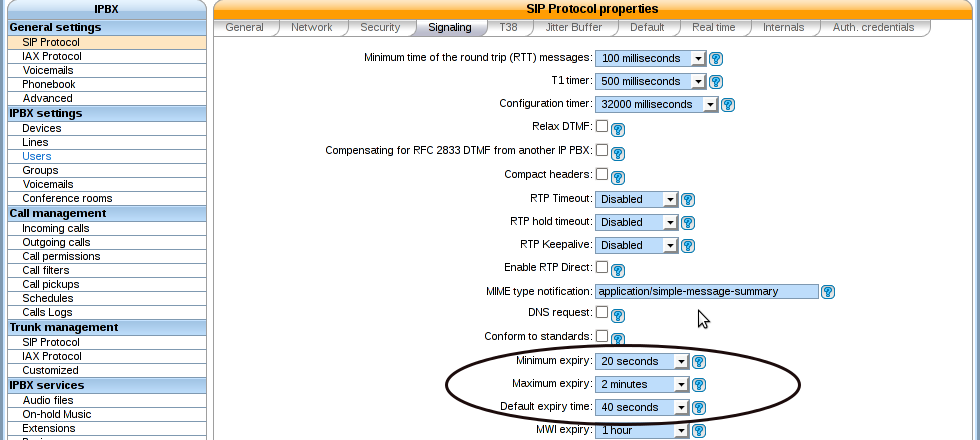
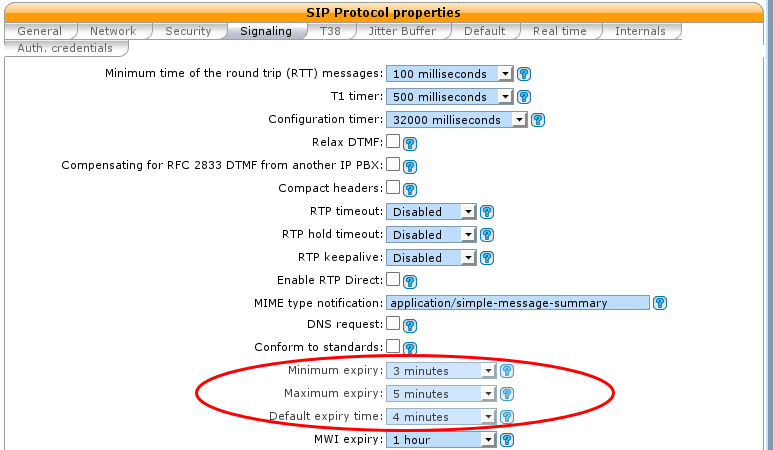
update HA registry timers to new defaults (3min - 5min)

Changed region(s): [[0.0, 0.0, 1.0, 1.0]]

diff --git a/source/high_availability/high_availability.rst b/source/high_availability/high_availability.rst
@@ -66,9 +66,9 @@ You can configure the master and slave in whatever order you want.
 
 SIP expiry value on master and slave will be automatically updated:
 
-* min: 20 seconds
-* max: 2 minutes
-* default: 40 seconds
+* min: 3 minutes
+* max: 5 minutes
+* default: 4 minutes
 
 .. figure:: images/general_settings_sip_expiry.png
 
